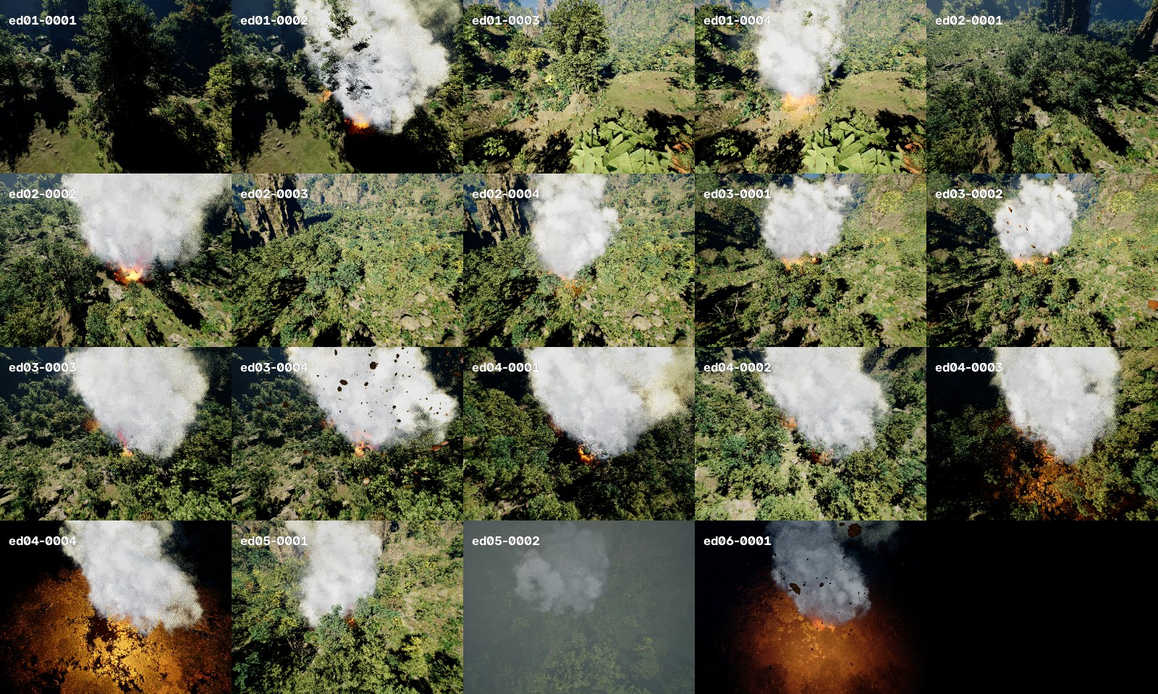
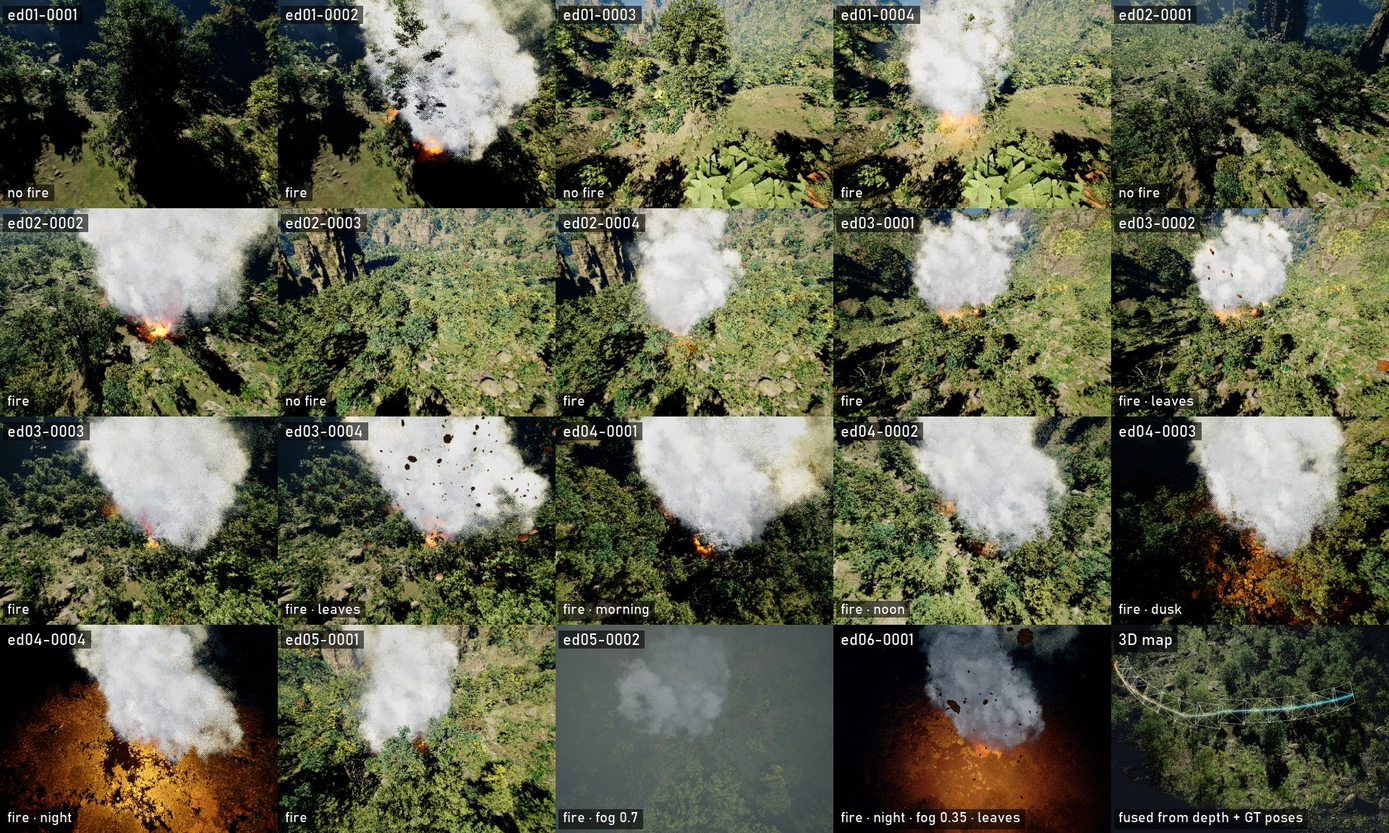
update

diff --git a/docs/dataset_card.md b/docs/dataset_card.md
@@ -14,13 +14,15 @@ size_categories: [10K<n<100K]
 Synthetic low-altitude UAV sequences over a forest with active fires — RGB, depth, normals, materials and exact poses —
 for SLAM, 3D Gaussian Splatting and robust perception under smoke, flames, falling leaves, fog and changing illumination.
 
-v2.0 is a re-collection of the WildfireX-SLAM benchmark structure (v1.0, MMM 2026 paper) with the open `wildfirex`
+v2.0 follows the benchmark structure of v1.0 (MMM 2026 paper; differences below) and was collected with the open `wildfirex`
 toolkit on simulator WildfireX-Sim 1.1: six fire sites,
 canopy-following flights just above the trees, float depth, exact camera poses, 30 Hz with 0.1 m per frame,
 runtime-controlled conditions and automatic quality checks. Every sequence can be regenerated with
 `wildfirex collect wildfirex_slam_v2.yaml --only <id>` (toolkit: `pip install wildfirex`; code, config and docs in the
 [WildfireX-SLAM repository](https://github.com/zhicongsun/WildfireX-SLAM); project page:
 [zhicongsun.github.io/wildfirexslam](https://zhicongsun.github.io/wildfirexslam)).
+
+![One frame of each of the 19 sequences, and a 3D map fused from depth and ground-truth poses](https://huggingface.co/datasets/zhicongsun/WildfireX-SLAM/resolve/main/assets/sequences_grid.jpg)
 
 | | |
 |---|---|
@@ -31,7 +33,7 @@ runtime-controlled conditions and automatic quality checks. Every sequence can b
 | Flight altitude | follows the surveyed canopy with a minimum clearance of 12 m (spirals of A) or 15 m (all others); per-sequence median 29–42 m above ground, 17–24 m above the canopy |
 | Simulator | WildfireX-Sim 1.1 (Electric Dreams, UE 5.2, AirSim-WildfireX plugin; + movable fire kits, moon) |
 | Collected with | wildfirex 0.1.0 (`wildfirex_slam_v2.yaml`) |
-| Size | ≈ 58 GB (PNG) |
+| Size | ≈ 62 GB (PNG in one zip per modality per sequence; RGB + depth ≈ 17.5 GB) |
 
 ## Benchmarks (`splits/wildfirex_slam_v2_0.json`)
 
@@ -43,12 +45,18 @@ runtime-controlled conditions and automatic quality checks. Every sequence can b
 | CS3 | ed05-0001, 0002 | fog 0 vs 0.7 | T02 side survey |
 | CS4 | ed06-0001 | fire + leaves + fog 0.35 + night | T04 spiral |
 
+![Six fire sites and the 19 trajectories, coloured by benchmark](https://huggingface.co/datasets/zhicongsun/WildfireX-SLAM/resolve/main/assets/trajectories.jpg)
+
 Paired sequences share exactly the same trajectory and fire. Per-sequence conditions are in `sequences.csv`
 and each `meta.json`.
 
 Fire: three fire kits (ground flames + smoke) form a ≈ 24 m fire front at every site; at `ed01` the level's original
-fire and smoke column (as in v1.0) are kept as well. At dusk a low sun lights the canopy from the opposite side to morning and the fire
+fire and smoke column are kept as well. At dusk a low sun lights the canopy from the opposite side to morning and the fire
 glows faintly; at night a weak moon and the fire light the scene, so it is dark away from the fire.
+
+### Conditions
+
+![Same trajectory, one factor changed: fire, fog, falling leaves, time of day](https://huggingface.co/datasets/zhicongsun/WildfireX-SLAM/resolve/main/assets/conditions.jpg)
 
 ## Download
 
@@ -100,7 +108,7 @@ positions and all versions, so sequences from different sites can be put in one 
 
 ### Sequence ids
 
-`<site>-<number>`, e.g. `ed04-0003`: `ed` = the Electric Dreams map, `01`–`06` = fire site (`ed01` is the paper's
+`<site>-<number>`, e.g. `ed04-0003`: `ed` = the Electric Dreams map, `01`–`06` = fire site (`ed01` is the level's original
 fire, `ed02`–`ed06` were chosen in the forest from the canopy survey), `0001`… = running number at that site. Conditions
 (fire, light, fog, leaves, trajectory) are fields in `sequences.csv` and `meta.json`, never part of the id, so new
 conditions never rename data.
@@ -117,15 +125,23 @@ conditions never rename data.
 | `specular` | material specular (G-buffer), grey |
 | `ir` | AirSim object-ID "infrared" image (grey value per object), **not** a physical thermal image |
 
-## Differences from v1.0 (paper) — please read
+![The seven modalities of one frame and the camera trajectory of the sequence](https://huggingface.co/datasets/zhicongsun/WildfireX-SLAM/resolve/main/assets/modalities.jpg)
 
-- Coverage: six fire sites within ≈ 600 m of the central forest, each flown over ≈ 100–150 m — not the 16 km² of v1.0.
-- Altitude: canopy-following, at least 12–15 m above the canopy, 26–53 m above ground, median ≤ 42 m (v1.0: "< 50 m above ground", fixed height).
-- Views: the camera looks at the fire from 42–110 m (spiral, side survey, search); flying right over a fire puts the camera
-  inside the smoke column (> 50 % of the image), so v2.0 has no nadir pass over the flames.
-- No physical thermal images (`ir` is AirSim's object-ID image); no near-ground views.
-- Depth includes smoke, flames and falling leaves (same instant as RGB); foliage moves with wind.
-- Fire sites `ed02`–`ed06` use fire kits added to the level (WildfireX-Sim 1.1); `ed01` is the paper's fire.
+## Differences from v1.0 (MMM 2026 paper) — please read
+
+- **Scale and views**: v1.0 has 5.5k RGB-D images over a 16 km² forest map, with aerial and near-ground views. v2.0 has
+  16,572 frames at six fire sites within ≈ 600 m of the central forest, aerial views only.
+- **Altitude**: v1.0 flies below 50 m above ground, Benchmark A within 15 m above ground. v2.0 follows the canopy at least
+  12–15 m above the trees: 26–53 m above ground, per-sequence median 29–42 m.
+- **Benchmarks**: A has 8 sequences at two sites (v1.0: 2). CS1 varies falling leaves with the fire on, at one site
+  (v1.0: with / without fire in two environments, with / without leaves). CS2 adds dusk to morning, noon and night.
+  CS3 (fog) and CS4 (fire + leaves + fog + night) follow v1.0.
+- **Modalities**: v1.0 includes thermal images. v2.0 has RGB, depth, normal, albedo, roughness, specular and an
+  object-ID image (`ir`, not thermal); it has no thermal images.
+- **Fire**: `ed02`–`ed06` use fire kits added to the level (WildfireX-Sim 1.1); `ed01` uses the level's original fire.
+- **Views of the fire**: the camera looks at the fire from 42–110 m (spiral, side survey, search); a pass right over a
+  fire puts the camera inside the smoke column (> 50 % of the image), so v2.0 has no nadir pass over the flames.
+- **Depth content**: depth includes smoke, flames and falling leaves (same instant as RGB); foliage moves with wind.
 
 ## Quality
 

diff --git a/README.md b/README.md
@@ -25,9 +25,9 @@
 </h3>
 
 <p align="center">
-  <img src="./images/v2_overview.jpg" alt="WildfireX-SLAM v2.0: six fire sites and 19 trajectories" width="100%">
+  <img src="./images/v2_sequences.jpg" alt="WildfireX-SLAM v2.0: one frame of each of the 19 sequences" width="100%">
 </p>
-<p align="center">WildfireX-SLAM v2.0: six fire sites in a UE5 forest, 19 canopy-following UAV trajectories. <a href="https://zhicongsun.github.io/wildfirexslam">Video on the project page.</a></p>
+<p align="center">WildfireX-SLAM v2.0: one frame of each of the 19 sequences, and a 3D map fused from depth and ground-truth poses. <a href="https://zhicongsun.github.io/wildfirexslam">Video on the project page.</a></p>
 
 ## News
 
@@ -57,7 +57,8 @@
 | CS3 | ed05-0001, 0002 | fog (0 vs 0.7) | lawn-mower survey |
 | CS4 | ed06-0001 | fire + leaves + fog (0.35) + night | spiral |
 
-<p align="center"><img src="./images/v2_sequences.jpg" alt="one frame of each sequence" width="100%"></p>
+<p align="center"><img src="./images/v2_overview.jpg" alt="six fire sites and 19 trajectories" width="100%"></p>
+<p align="center">Six fire sites in the UE5 forest and the 19 canopy-following trajectories, coloured by benchmark.</p>
 
 Download from [Hugging Face](https://huggingface.co/datasets/zhicongsun/WildfireX-SLAM) — one zip per modality per sequence,
 so you can fetch e.g. only RGB-D (≈ 17.5 GB of ≈ 62 GB); see the dataset card — unzip in place and load a sequence:

diff --git a/docs/naming.md b/docs/naming.md
@@ -7,8 +7,8 @@ dataset names.
 |---|---|---|---|
 | Project (paper, dataset configs, toolkit, docs) | `WildfireX-SLAM` | GitHub `zhicongsun/WildfireX-SLAM` | dataset releases `v1.0` (paper), `v2.0`, ... as git tags |
 | Toolkit | Python package / command `wildfirex` | `src/wildfirex` in this repository, PyPI `wildfirex` | SemVer `0.x` → `1.0` |
-| Dataset | WildfireX-SLAM | Hugging Face `zhicongsun/WildfireX-SLAM` (v2.0); v1.0 on request | `v1.0` (paper), `v2.0`, `v3.0` (spreading fire) |
-| Simulator (packaged UE environment) | WildfireX-Sim | Hugging Face `zhicongsun/WildfireX-Sim` (coming soon) | `1.0` = paper; `1.1` = + fire kits, moon (v2.0); `2.0` = spreading fire |
+| Dataset | WildfireX-SLAM | Hugging Face `zhicongsun/WildfireX-SLAM` (v2.0); v1.0 on request | `v1.0` (paper), `v2.0`, `v3.0` (dynamic fire with fire-front ground truth) |
+| Simulator (packaged UE environment) | WildfireX-Sim | Hugging Face `zhicongsun/WildfireX-Sim` (coming soon) | `1.0` = paper; `1.1` = + fire kits, moon (v2.0); `2.0` = dynamic fire with fire-front ground truth |
 
 - Toolkit, simulator and dataset are versioned independently; every `meta.json` records the toolkit, config-schema,
   simulator and dataset versions it was produced with.

diff --git a/CHANGELOG.md b/CHANGELOG.md
@@ -13,10 +13,10 @@ Dataset
 
 Toolkit (`src/wildfirex`, first public release)
 - Simulator control through a vendored, matched AirSim client; msgpack ≥ 1.0 for ~125× faster float depth.
-- Depth: float DepthPlanar stored as 16-bit cm PNG, captured in the same frame as RGB (v1: 8-bit DepthPerspective).
-- Poses from `simGetCameraInfo`, exported as OpenCV camera-to-world in TUM and Replica formats (v1: body pose + offset).
+- Depth: float DepthPlanar stored as 16-bit cm PNG, captured in the same frame as RGB.
+- Poses from `simGetCameraInfo`, exported as OpenCV camera-to-world in TUM and Replica formats.
 - 30 Hz with 0.1 m per frame (waypoint densification + slerp); world time advanced exactly 1/30 s per frame via
-  `simSetGameSpeed` (v1: `ClockSpeed`, which does not slow the world in ComputerVision mode).
+  `simSetGameSpeed`.
 - 5 pre-roll captures before frame 0 (the first capture after warm-up held stale render-target content).
 - Runtime scene control: fire on/off, movable fire kits at any site, sun presets (dusk from the opposite azimuth to
   morning), moon, fire light dimmed by preset, fog, falling leaves.

diff --git a/simulator/README.md b/simulator/README.md
@@ -5,9 +5,9 @@ this repository.
 
 | Version | Content | Download | Used by |
 |---|---|---|---|
-| 1.0 | Electric Dreams environment, M5 VFX Niagara smoke column (static), AirSim-WildfireX plugin; packaged 2025-08-27 | `WildfireX-Sim-1.0-Win64.zip` (≈13 GB) — coming soon | WildfireX-SLAM v1.0 |
+| 1.0 | Electric Dreams environment, M5 VFX Niagara fire, AirSim-WildfireX plugin (environment of the MMM 2026 paper) | `WildfireX-Sim-1.0-Win64.zip` (≈13 GB) — coming soon | WildfireX-SLAM v1.0 |
 | 1.1 | 1.0 + movable fire kits (flame variants, smoke, fire light), moon, night auto-exposure range; same code | `WildfireX-Sim-1.1-Win64.zip` (≈13 GB) — coming soon | WildfireX-SLAM v2.0 |
-| 2.0 | planned: fire spread, fire/smoke masks | – | – |
+| 2.0 | planned: dynamic fire scenes with per-frame fire-front ground truth, fire/smoke masks | – | – |
 
 ### 1.1 changes (add-only)
 

diff --git a/legacy/v1/README.md b/legacy/v1/README.md
@@ -6,7 +6,4 @@ The script used for the v1.0 dataset of the MMM 2026 paper, kept unchanged for r
 - `external-libraries/` — the Python packages it was run with (AirSim client 1.8.1, msgpack 0.5.6, msgpack-rpc-python 0.4.1,
   tornado 4.5.3), under their own licenses.
 
-For new data use the `wildfirex` toolkit in this repository (`pip install wildfirex`). Main differences: float depth in
-the same frame as RGB, exact camera poses, 30 Hz with world time advanced exactly 1/30 s per frame, runtime scene control,
-automatic quality checks, and a much faster depth transfer (the pure-Python msgpack 0.5.6 used here re-parses the whole
-buffer for every network chunk, ~11 s per float depth image).
+To collect new data, use the `wildfirex` toolkit in this repository (`pip install wildfirex`).
